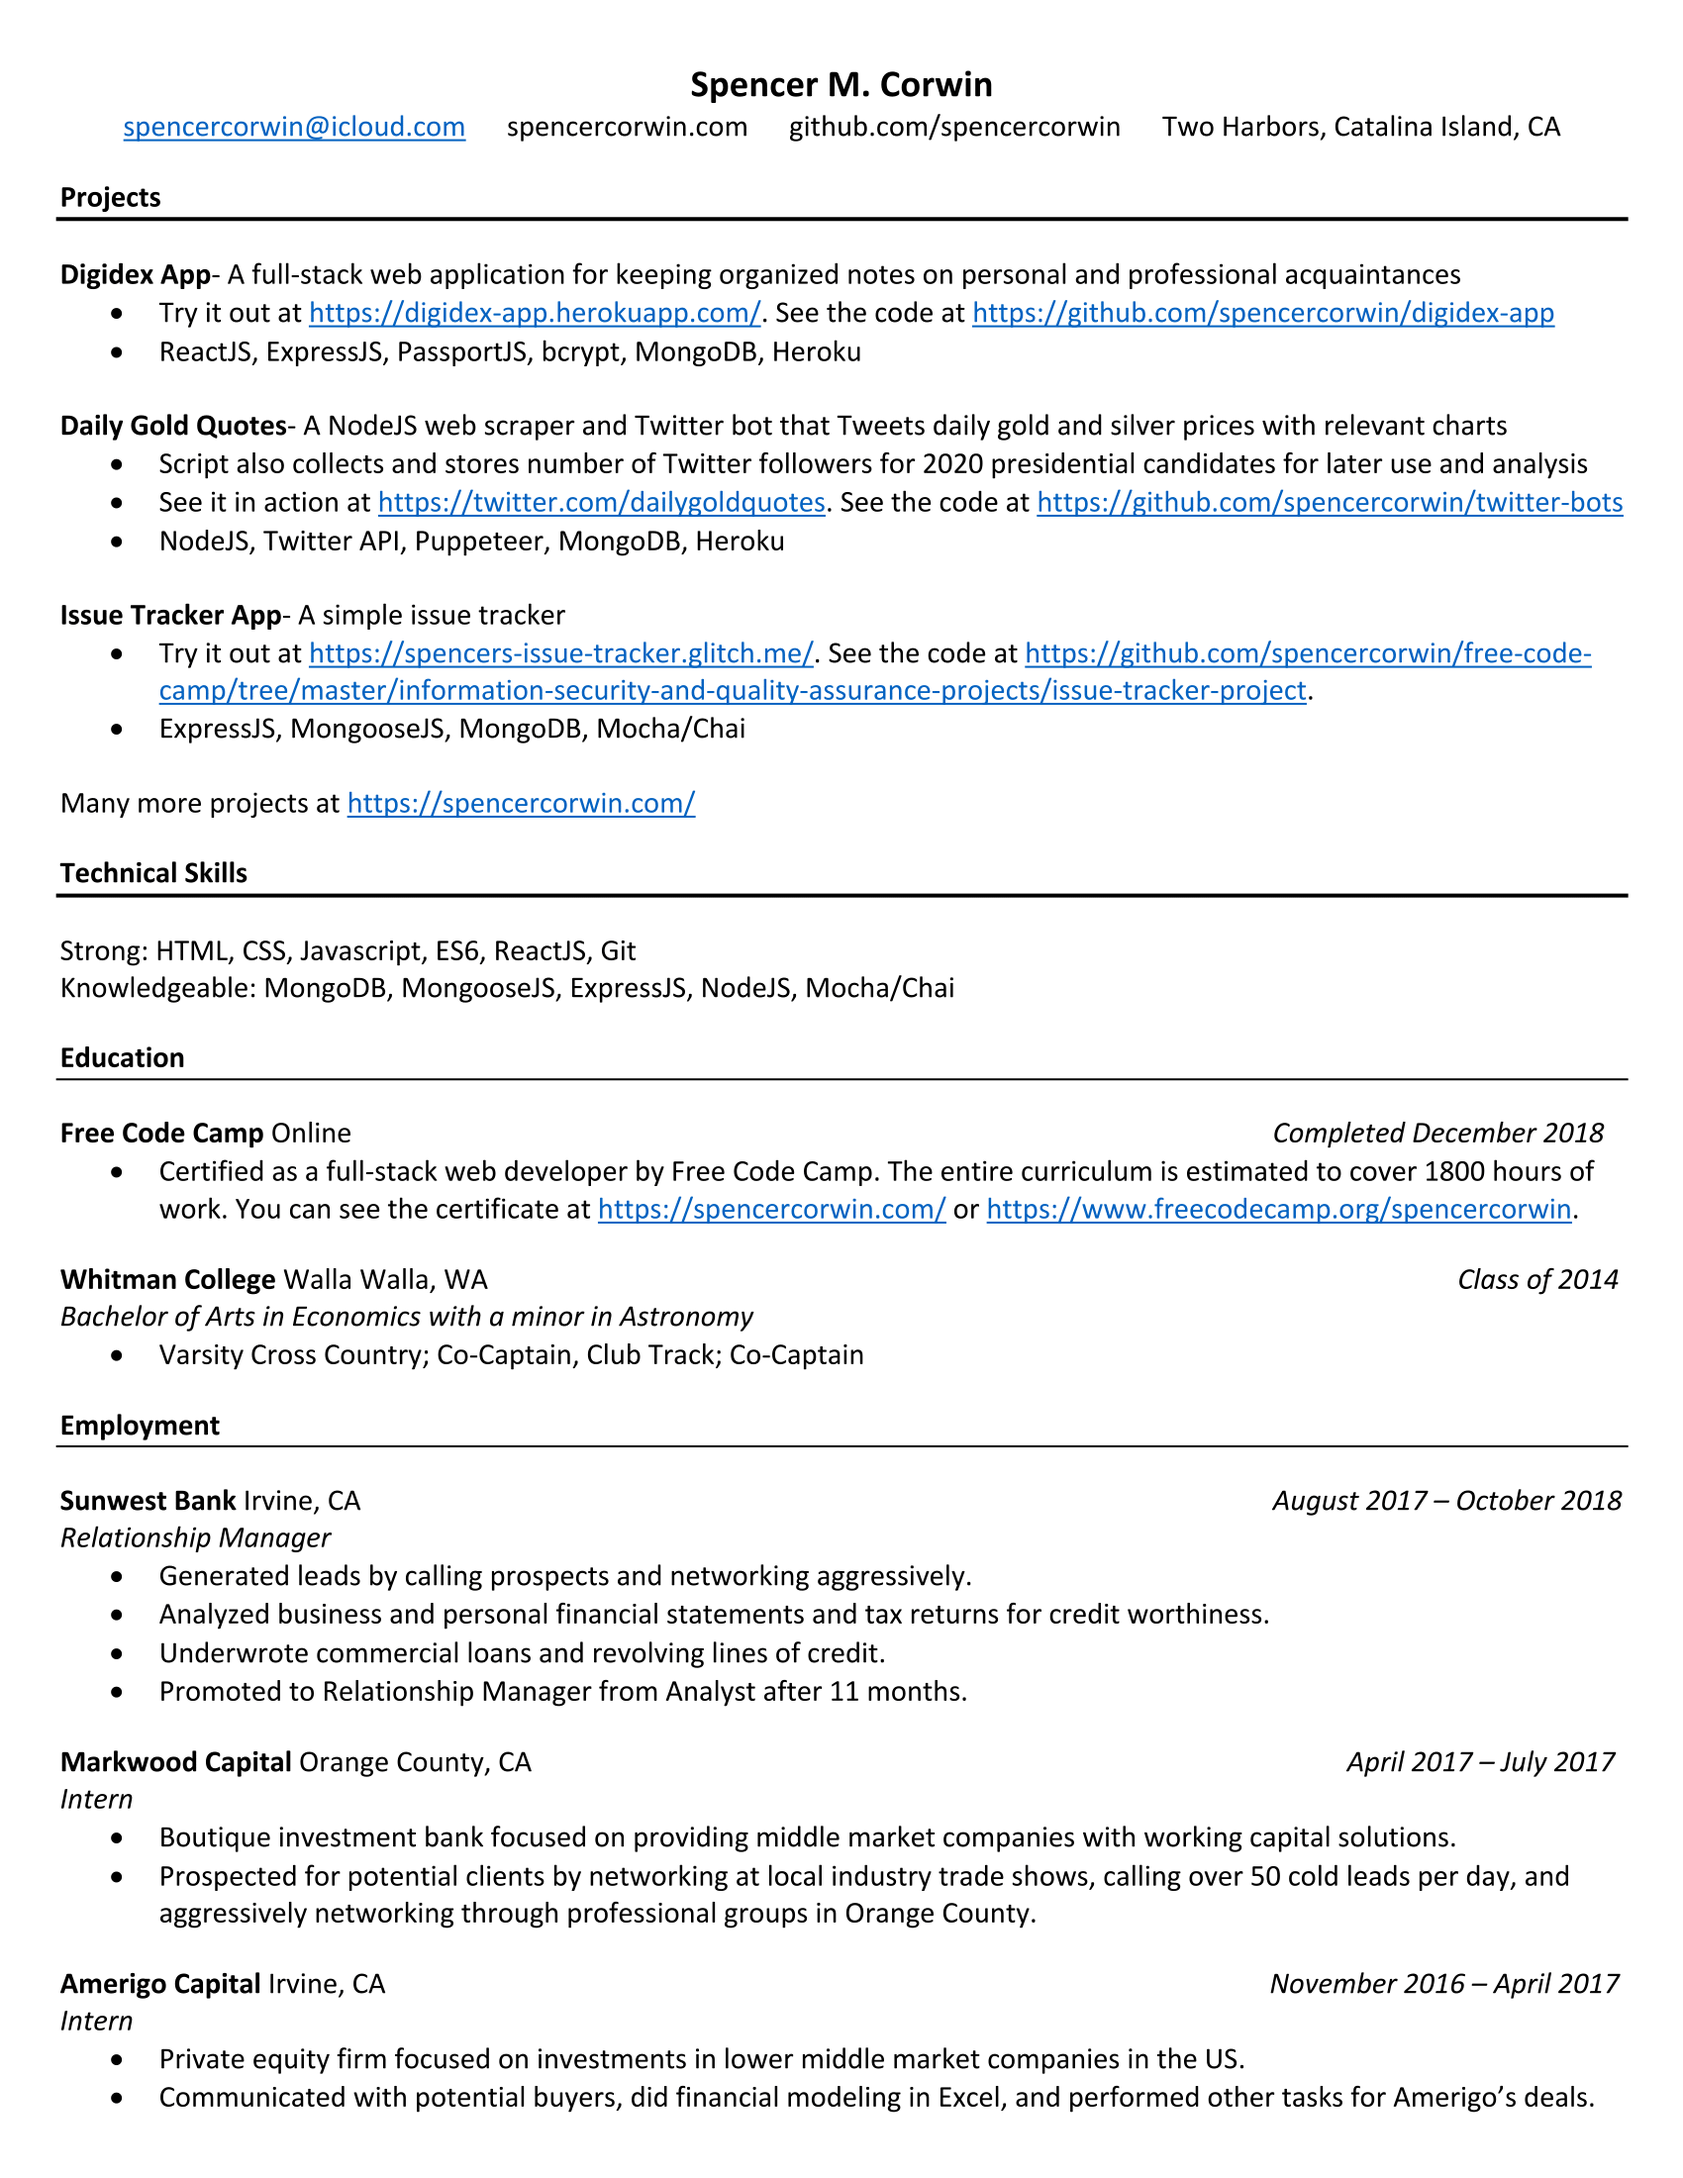
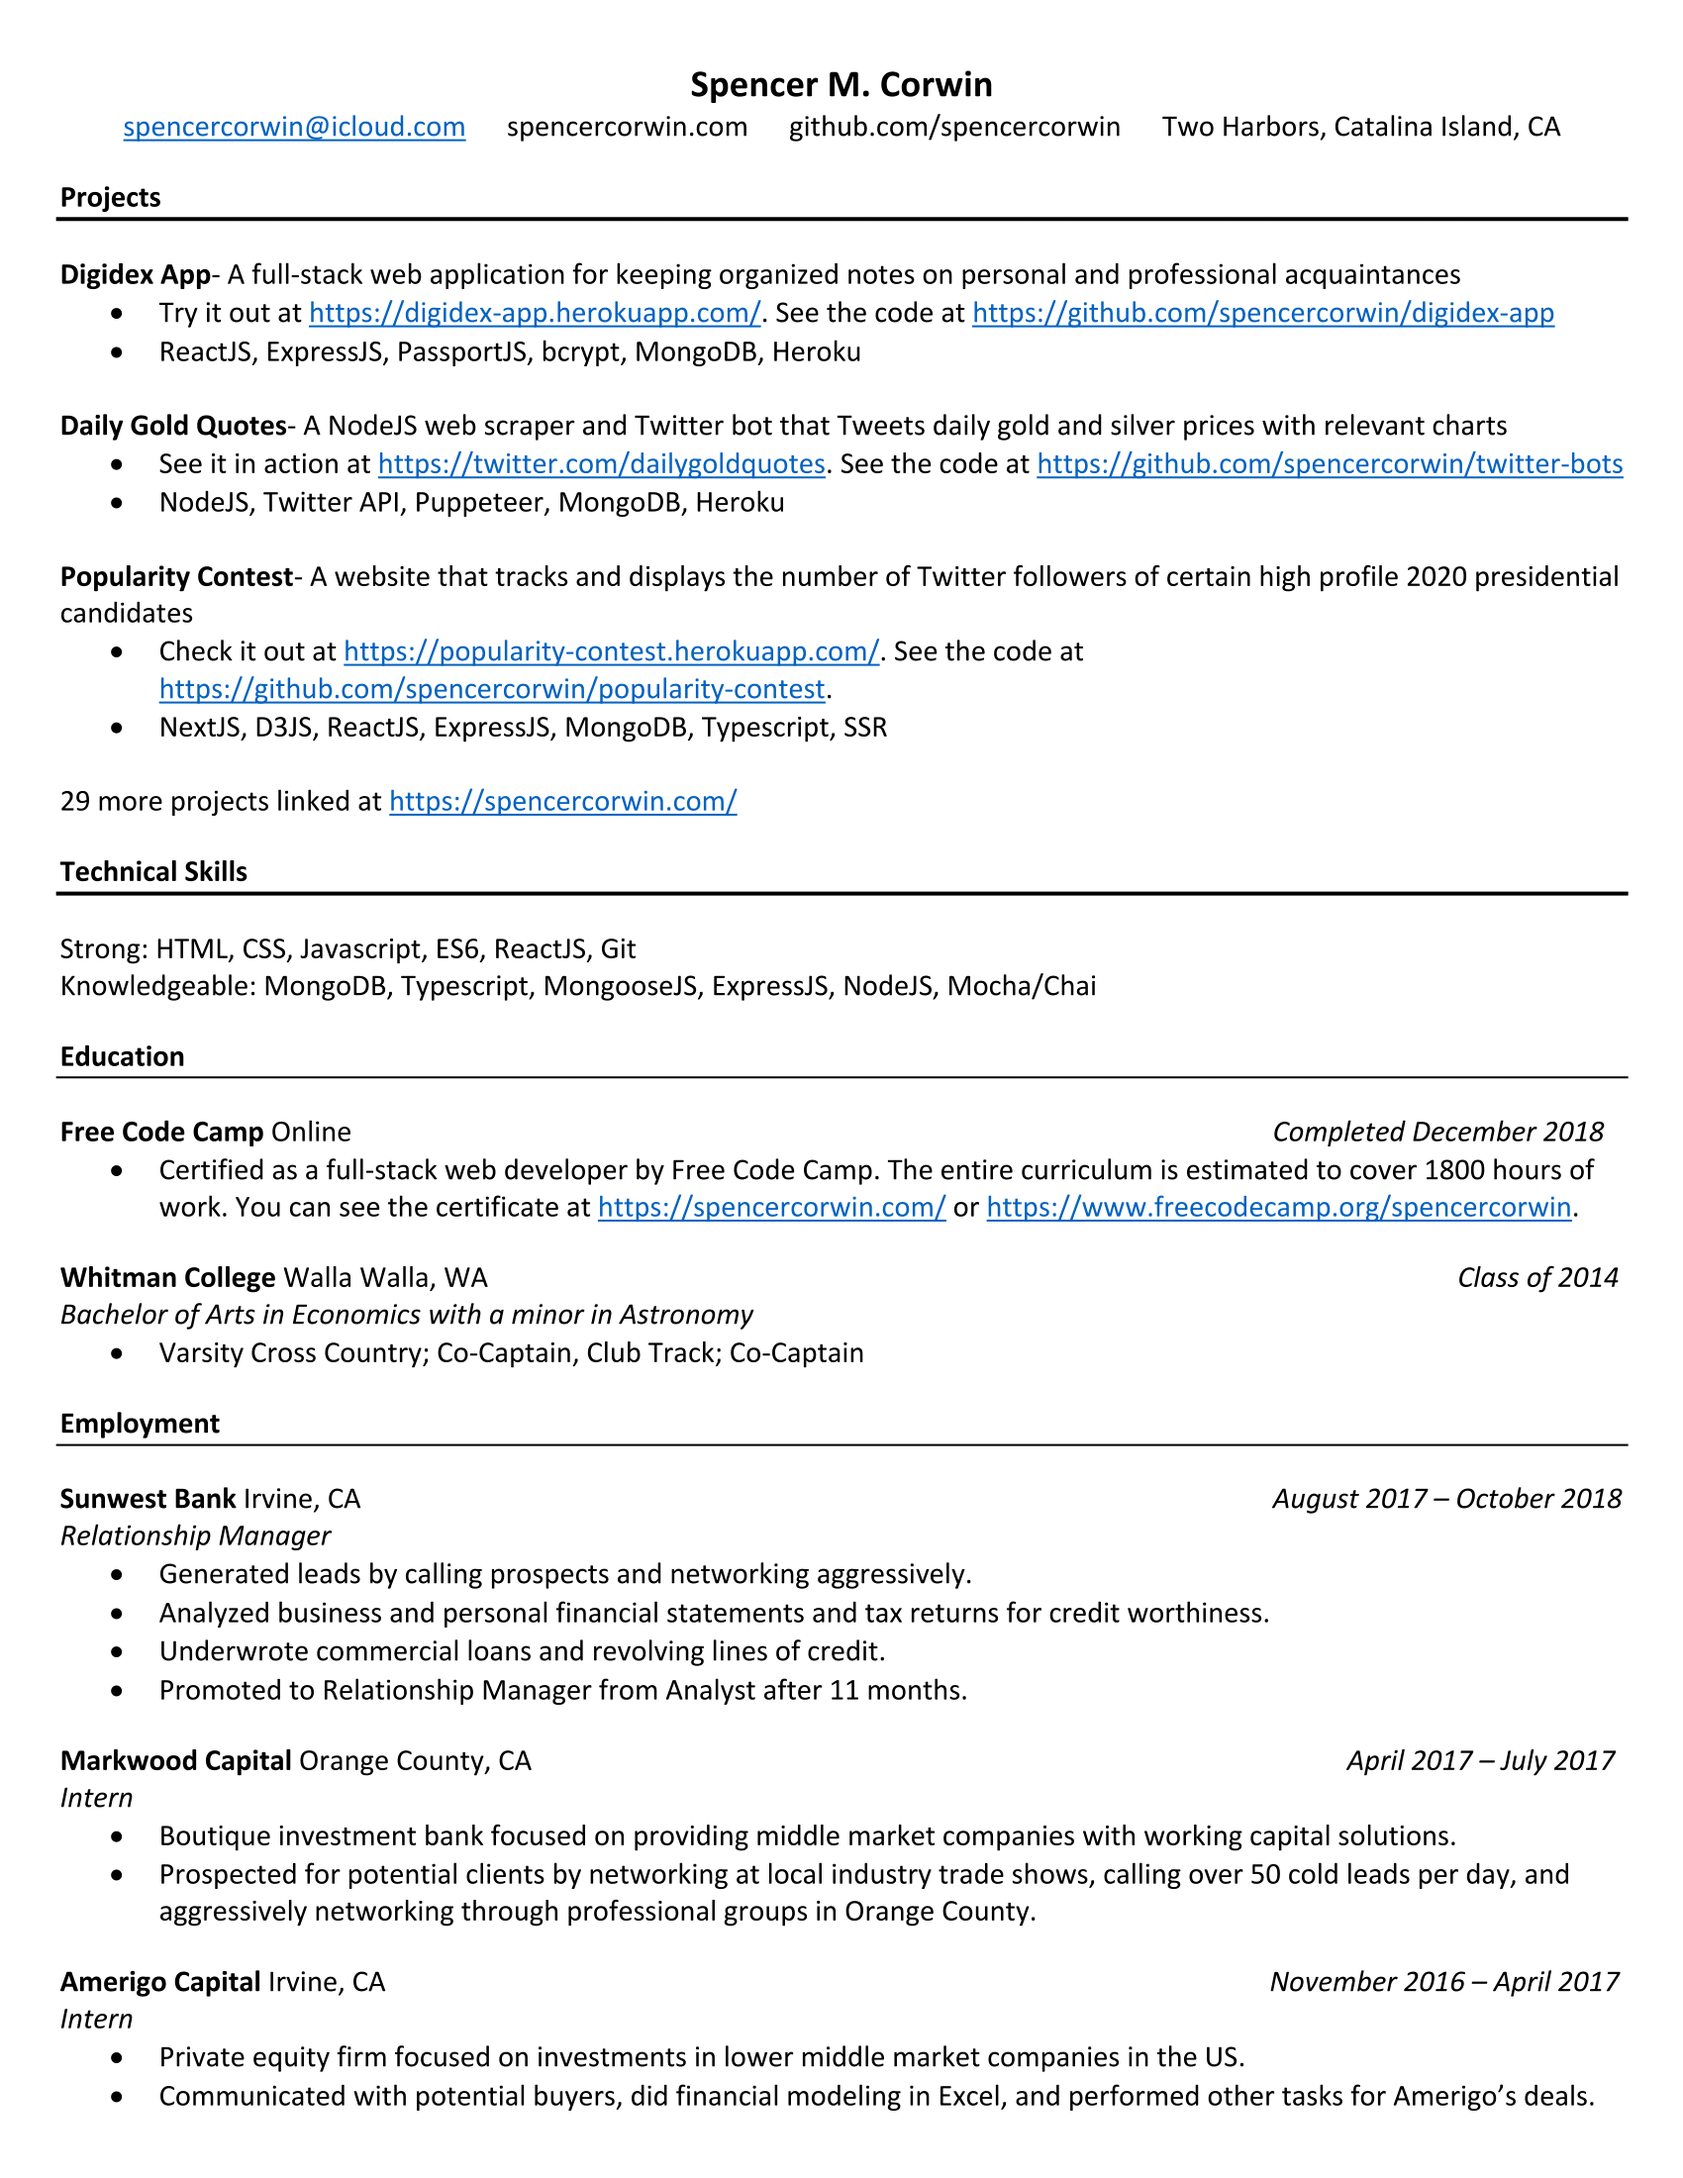
Add two projects, update resume, other slight changes

diff --git a/src/aboutme.js b/src/aboutme.js
@@ -5,7 +5,7 @@ import { Link } from 'react-router-dom';
 const AboutMe = () => {
     return (
         <div className="description">
-            <p>I am a full-stack web developer for hire from Orange County, CA with experience in HTML, CSS, Javascript, ReactJS, NodeJS, ExpressJS, MongoDB, MongooseJS, and Git/GitHub. To see some of the work I've done you can go to my <a href="https://github.com/spencercorwin">GitHub</a> or click <Link to="/projects">here</Link> to see my completed projects.</p>
+            <p>I am a full-stack web developer for hire from Orange County, CA with experience in HTML, CSS, Javascript, Typescript, ReactJS, NodeJS, ExpressJS, MongoDB, MongooseJS, and Git/GitHub. To see my completed projects click <Link to="/projects">here</Link>. To see the code for any of these projects go to my <a href="https://github.com/spencercorwin">GitHub</a>.</p>
             <p>Until recently I worked in the fields of finance and real estate, most recently working as a banker at a community bank. I’m a voracious reader and in late 2017 I read <em>How to Create a Mind</em> by Ray Kurzweil and was struck by the infinite potential that still exists in computers, software, and information technology. I realized that I had to somehow make my way into software. After months of research, reflection, and talking to people, I decided I had the capability to teach myself to code and become a software engineer. I got started with little practical direction, but eventually I realized that web development would be the most practical field to enter. For months I coded on nights and weekends while working at the bank. I used free online resources like freeCodeCamp and free textbooks to teach myself. By October 2018 I figured I had built a good base of skills, that I had saved a bit of money, and that I could move in with brother on Catalina Island to live ultra cheap. This way I could quit my job at the bank and code full-time to reach my goal of becoming a professional software engineer. I’ve been coding full-time since mid-October and I’ve come a long way. I am now looking for a full-time job as a web developer.</p>
             <p>Please note that while I currently live on Catalina Island in southern California, I intend to immediately move to wherever I find great employment.</p>
             <p>If you want to read more about my progression you can visit my blog <a href="https://spencercorwin.com/blog">here</a>. To see a more complete view of my professional resume you can go to my <a href="https://www.linkedin.com/in/spencercorwin/">LinkedIn</a> or you can view and download my resume <Link to="/resume">here</Link>. To see all my freeCodeCamp certifications, including for full-stack web development, click <Link to="/fcc">here</Link>. To get in touch with me please send me an <a href="mailto:spencercorwin@icloud.com">email</a>.</p>

diff --git a/src/projects.js b/src/projects.js
@@ -7,6 +7,8 @@ const Projects = () => {
             <h3 className="project-title">Personal Projects</h3>
             <ul className="list-style">
                 <li><a href="https://digidex-app.herokuapp.com">Digidex App (ReactJS, React Router, ExpressJS, MongoDB)</a></li>
+                <li><a href="https://popularity-contest.herokuapp.com/">Popularity Contest App (NextJS, D3JS, ReactJS, ExpressJS, MongoDB, Typescript, SSR)</a></li>
+                <li><a href="https://github.com/spencercorwin/command-line-games">Command Line Tic-Tac-Toe and Connect Four (Typescript)</a></li>
                 <li><a href="https://twitter.com/dailygoldquotes">Daily Gold and Silver Quotes (NodeJS Web Scraper and Twitter Bot)</a></li>
                 <li><a href="https://spencercorwin.com/to-do-app">To Do App (ReactJS)</a></li>
                 <li><a href="https://spencercorwin.com/bitch-better-have-my-coffee">"Bitch Better Have My Coffee" Podcast Website (GatsbyJS)</a></li>

diff --git a/src/App.js b/src/App.js
@@ -2,7 +2,7 @@ import React, { Component } from 'react';
 import { MemoryRouter, Route, Redirect, Switch, NavLink } from 'react-router-dom';
 import { TransitionGroup, CSSTransition } from 'react-transition-group';
 import ReactGA from 'react-ga';
-import './app.css';
+import './App.css';
 import Image from './assets/guatape-min.jpeg';
 import Projects from './projects';
 import AboutMe from './aboutme';
@@ -18,7 +18,7 @@ class App extends Component {
     super(props);
     this.state = {
       dark: true,
-      contributions: '409', //'...loading...',
+      contributions: '473', //'...loading...',
       score: '224', //'...loading...',
       rank: '6 kyu', //'...loading...'
       js: '7 kyu', //'...loading...',

diff --git a/src/index.js b/src/index.js
@@ -1,6 +1,6 @@
 import React from 'react';
 import ReactDOM from 'react-dom';
 import './index.css';
-import App from './app';
+import App from './App';
 
 ReactDOM.render(<App />, document.getElementById('root'));

diff --git a/src/testimonials.css b/src/testimonials.css
@@ -4,5 +4,5 @@
 }
 
 .testimonial-author {
-    font-size: 14px;
+    font-size: 16px;
 }
